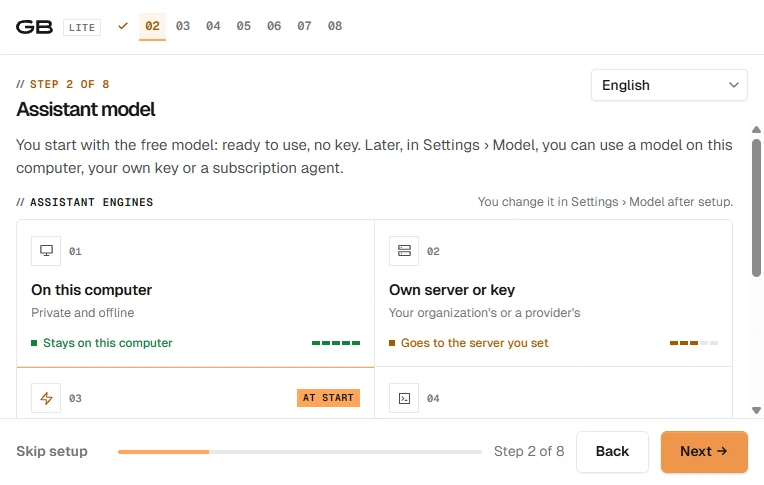
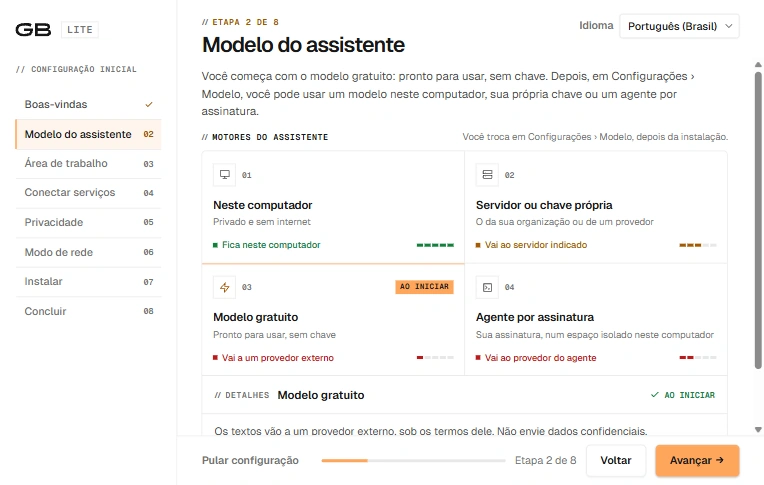
Show each Lite model setting in Brazilian Portuguese

diff --git a/lite/index.html b/lite/index.html
@@ -75,8 +75,8 @@
     </div>
     <figure class="lite-stage">
       <img class="lite-screen lite-screen--hero" src="/lite/assets/assistant.webp?v=public-sector" width="1280" height="750" alt="General Bots Lite assistant with a sample conversation" data-i18n="lite.assistant_alt" fetchpriority="high" decoding="async">
-      <img class="lite-screen lite-screen--float" src="/lite/assets/model.webp" width="764" height="485" alt=""  decoding="async">
-      <figcaption class="lite-preview" data-i18n="lite.preview">Lite development screens with sample data. Interface language may vary by screen.</figcaption>
+      <img class="lite-screen lite-screen--float" src="/lite/assets/model.webp?v=pt-br" width="764" height="485" alt=""  decoding="async">
+      <figcaption class="lite-preview" data-i18n="lite.preview">Lite development screenshots in Brazilian Portuguese with sample data.</figcaption>
     </figure>
     <ul class="lite-benefits">
         <li class="lite-benefit">
@@ -104,33 +104,57 @@
   <section class="lite-wrap lite-section" id="engines" aria-labelledby="lite-engines_title">
     <div class="lite-section-heading">
       <h2 id="lite-engines_title" data-i18n="lite.engines_title">Four engines. You choose where your data goes.</h2>
-      <p data-i18n="lite.engines_copy">The engine panel shows the active engine, its destination and what it can do.</p>
+      <p data-i18n="lite.engines_copy">In Settings › Model, choose an engine and see where it processes prompts.</p>
     </div>
     <div class="lite-engine-grid">
-      <figure class="lite-image-pad">
-        <a class="lite-image-open" href="/lite/assets/model.webp?view=full">
-          <img class="lite-screen" src="/lite/assets/model.webp" width="764" height="485" alt="First-run screen listing the four assistant engines" data-i18n="lite.model_alt" loading="lazy" decoding="async">
-          <svg aria-hidden="true" class="lite-image-expand" viewBox="0 0 24 24" fill="none" stroke="currentColor" stroke-width="2" stroke-linecap="round" stroke-linejoin="round"><path d="M9 3H3v6m12-6h6v6M3 15v6h6m12-6v6h-6"/></svg>
-        </a>
-      </figure>
-      <div class="lite-engine-options">
-        <details name="lite-engines" open>
-          <summary><svg aria-hidden="true" viewBox="0 0 24 24" fill="none" stroke="currentColor" stroke-width="1.75" stroke-linecap="round" stroke-linejoin="round"><rect x="2" y="3" width="20" height="14" rx="2"/><path d="M8 21h8m-4-4v4"/></svg><span data-i18n="lite.engine_local">On this computer</span></summary>
+      <article class="lite-engine-card">
+        <div class="lite-engine-copy">
+          <h3><svg aria-hidden="true" viewBox="0 0 24 24" fill="none" stroke="currentColor" stroke-width="1.75" stroke-linecap="round" stroke-linejoin="round"><rect x="2" y="3" width="20" height="14" rx="2"/><path d="M8 21h8m-4-4v4"/></svg><span data-i18n="lite.engine_local">On this computer</span></h3>
           <p data-i18n="lite.engine_local_copy">A compatible local model processes prompts on your computer after setup.</p>
-        </details>
-        <details name="lite-engines">
-          <summary><svg aria-hidden="true" viewBox="0 0 24 24" fill="none" stroke="currentColor" stroke-width="1.75" stroke-linecap="round" stroke-linejoin="round"><rect x="3" y="3" width="18" height="8" rx="2"/><rect x="3" y="13" width="18" height="8" rx="2"/><path d="M7 7h.01M7 17h.01"/></svg><span data-i18n="lite.engine_server">Your own server or key</span></summary>
+        </div>
+        <figure class="lite-image-pad">
+          <a class="lite-image-open" href="/lite/assets/settings-model-local.webp?view=full">
+            <img class="lite-screen" src="/lite/assets/settings-model-local.webp" width="1090" height="733" alt="Settings › Model showing the local model catalog" data-i18n="lite.model_local_alt" loading="lazy" decoding="async">
+            <svg aria-hidden="true" class="lite-image-expand" viewBox="0 0 24 24" fill="none" stroke="currentColor" stroke-width="2" stroke-linecap="round" stroke-linejoin="round"><path d="M9 3H3v6m12-6h6v6M3 15v6h6m12-6v6h-6"/></svg>
+          </a>
+        </figure>
+      </article>
+      <article class="lite-engine-card">
+        <div class="lite-engine-copy">
+          <h3><svg aria-hidden="true" viewBox="0 0 24 24" fill="none" stroke="currentColor" stroke-width="1.75" stroke-linecap="round" stroke-linejoin="round"><rect x="3" y="3" width="18" height="8" rx="2"/><rect x="3" y="13" width="18" height="8" rx="2"/><path d="M7 7h.01M7 17h.01"/></svg><span data-i18n="lite.engine_server">Your own server or key</span></h3>
           <p data-i18n="lite.engine_server_copy">Prompts go to your organization’s server or the provider you select.</p>
-        </details>
-        <details name="lite-engines">
-          <summary><svg aria-hidden="true" viewBox="0 0 24 24" fill="none" stroke="currentColor" stroke-width="1.75" stroke-linecap="round" stroke-linejoin="round"><path d="M6 18a4 4 0 0 1-.3-8 6 6 0 0 1 11.6-1.4A4.8 4.8 0 0 1 18 18Z"/></svg><span data-i18n="lite.engine_free">Free hosted model</span></summary>
+        </div>
+        <figure class="lite-image-pad">
+          <a class="lite-image-open" href="/lite/assets/settings-model-server.webp?view=full">
+            <img class="lite-screen" src="/lite/assets/settings-model-server.webp" width="1090" height="709" alt="Settings › Model showing organization server and provider-key choices" data-i18n="lite.model_server_alt" loading="lazy" decoding="async">
+            <svg aria-hidden="true" class="lite-image-expand" viewBox="0 0 24 24" fill="none" stroke="currentColor" stroke-width="2" stroke-linecap="round" stroke-linejoin="round"><path d="M9 3H3v6m12-6h6v6M3 15v6h6m12-6v6h-6"/></svg>
+          </a>
+        </figure>
+      </article>
+      <article class="lite-engine-card">
+        <div class="lite-engine-copy">
+          <h3><svg aria-hidden="true" viewBox="0 0 24 24" fill="none" stroke="currentColor" stroke-width="1.75" stroke-linecap="round" stroke-linejoin="round"><path d="M6 18a4 4 0 0 1-.3-8 6 6 0 0 1 11.6-1.4A4.8 4.8 0 0 1 18 18Z"/></svg><span data-i18n="lite.engine_free">Free hosted model</span></h3>
           <p data-i18n="lite.engine_free_copy">Ready to try without an API key. Prompts go to an external provider.</p>
-        </details>
-        <details name="lite-engines">
-          <summary><svg aria-hidden="true" viewBox="0 0 24 24" fill="none" stroke="currentColor" stroke-width="1.75" stroke-linecap="round" stroke-linejoin="round"><rect x="4" y="8" width="16" height="12" rx="3"/><path d="M12 8V4m-1 0h2M9 14h.01M15 14h.01M2 12v4m20-4v4"/></svg><span data-i18n="lite.engine_subscription">Subscription agent</span></summary>
+        </div>
+        <figure class="lite-image-pad">
+          <a class="lite-image-open" href="/lite/assets/settings-model-free.webp?view=full">
+            <img class="lite-screen" src="/lite/assets/settings-model-free.webp" width="1090" height="448" alt="Settings › Model showing the free hosted model" data-i18n="lite.model_free_alt" loading="lazy" decoding="async">
+            <svg aria-hidden="true" class="lite-image-expand" viewBox="0 0 24 24" fill="none" stroke="currentColor" stroke-width="2" stroke-linecap="round" stroke-linejoin="round"><path d="M9 3H3v6m12-6h6v6M3 15v6h6m12-6v6h-6"/></svg>
+          </a>
+        </figure>
+      </article>
+      <article class="lite-engine-card">
+        <div class="lite-engine-copy">
+          <h3><svg aria-hidden="true" viewBox="0 0 24 24" fill="none" stroke="currentColor" stroke-width="1.75" stroke-linecap="round" stroke-linejoin="round"><rect x="4" y="8" width="16" height="12" rx="3"/><path d="M12 8V4m-1 0h2M9 14h.01M15 14h.01M2 12v4m20-4v4"/></svg><span data-i18n="lite.engine_subscription">Subscription agent</span></h3>
           <p data-i18n="lite.engine_subscription_copy">The agent works in an isolated workspace on your computer, while prompts go to the subscription provider.</p>
-        </details>
-      </div>
+        </div>
+        <figure class="lite-image-pad">
+          <a class="lite-image-open" href="/lite/assets/settings-model-subscription.webp?view=full">
+            <img class="lite-screen" src="/lite/assets/settings-model-subscription.webp" width="1090" height="502" alt="Settings › Model showing subscription agent choices" data-i18n="lite.model_subscription_alt" loading="lazy" decoding="async">
+            <svg aria-hidden="true" class="lite-image-expand" viewBox="0 0 24 24" fill="none" stroke="currentColor" stroke-width="2" stroke-linecap="round" stroke-linejoin="round"><path d="M9 3H3v6m12-6h6v6M3 15v6h6m12-6v6h-6"/></svg>
+          </a>
+        </figure>
+      </article>
     </div>
   </section>
 
@@ -249,8 +273,8 @@
         <li><div><h3 data-i18n="lite.step_agent">Turn on the agent when needed</h3><p data-i18n="lite.step_agent_copy">Approve actions as the agent works in the isolated virtual machine.</p></div></li>
       </ol>
       <figure class="lite-image-pad">
-        <a class="lite-image-open" href="/lite/assets/workspace.webp?view=full">
-          <img class="lite-screen" src="/lite/assets/workspace.webp" width="764" height="485" alt="First-run screen for choosing the workspace folder" data-i18n="lite.workspace_alt" loading="lazy" decoding="async">
+        <a class="lite-image-open" href="/lite/assets/workspace.webp?view=full&amp;v=pt-br">
+          <img class="lite-screen" src="/lite/assets/workspace.webp?v=pt-br" width="764" height="485" alt="First-run screen for choosing the workspace folder" data-i18n="lite.workspace_alt" loading="lazy" decoding="async">
           <svg aria-hidden="true" class="lite-image-expand" viewBox="0 0 24 24" fill="none" stroke="currentColor" stroke-width="2" stroke-linecap="round" stroke-linejoin="round"><path d="M9 3H3v6m12-6h6v6M3 15v6h6m12-6v6h-6"/></svg>
         </a>
       </figure>

diff --git a/lite/lite.css b/lite/lite.css
@@ -189,7 +189,7 @@
 .lite-engine-grid, .lite-agent-grid, .lite-setup-grid {
   display: grid; align-items: stretch; min-width: 0; gap: 1rem;
 }
-.lite-engine-grid { grid-template-columns: minmax(0, 1.22fr) minmax(0, .78fr); }
+.lite-engine-grid { grid-template-columns: repeat(2, minmax(0, 1fr)); }
 .lite-agent-grid { grid-template-columns: minmax(0, 1.55fr) minmax(0, .75fr); }
 .lite-setup-grid { grid-template-columns: minmax(0, .9fr) minmax(0, 1.1fr); }
 .lite-image-pad {
@@ -207,27 +207,19 @@
   color: var(--lite-ink); background: var(--lite-surface);
   width: 1.55rem; height: 1.55rem; padding: .27rem; border-radius: 4px; border: 1px solid var(--lite-line);
 }
-.lite-engine-options { display: grid; align-content: start; gap: .55rem; }
-.lite-engine-options details, .lite-card, .lite-trace {
+.lite-engine-card, .lite-card, .lite-trace {
   min-width: 0; border: 1px solid var(--lite-line); border-radius: 8px; background: var(--lite-surface);
 }
-.lite-engine-options details[open] {
-  border-color: color-mix(in srgb, var(--lite-accent-text) 51%, var(--lite-line));
-  background: color-mix(in srgb, var(--lite-accent) 8%, var(--lite-surface));
+.lite-engine-card { display: flex; flex-direction: column; }
+.lite-engine-copy { display: grid; align-content: start; gap: .55rem; padding: clamp(1rem, 2vw, 1.45rem); }
+.lite-engine-copy h3 { display: flex; align-items: center; gap: .6rem; }
+.lite-engine-copy svg, .lite-card-icon svg, .lite-trace svg {
+  flex: none; width: 1.15rem; height: 1.15rem; color: var(--lite-accent-text);
 }
-.lite-engine-options summary {
-  display: grid; grid-template-columns: 1.25rem 1fr .65rem; gap: .7rem; align-items: center;
-  cursor: pointer; padding: .9rem 1rem; color: var(--lite-ink); font-weight: 650; list-style: none;
+.lite-engine-card .lite-image-pad {
+  flex: 1; align-content: start; padding: clamp(.5rem, 1.3vw, 1rem);
+  border: 0; border-block-start: 1px solid var(--lite-line); border-radius: 0 0 7px 7px;
 }
-.lite-engine-options summary::-webkit-details-marker { display: none; }
-.lite-engine-options summary::after {
-  content: ""; width: .45rem; height: .45rem; border: solid currentColor; border-width: 0 1.5px 1.5px 0;
-  transform: rotate(45deg);
-}
-.lite-engine-options details[open] summary::after { transform: rotate(225deg); }
-.lite-engine-options summary:hover { background: color-mix(in srgb, var(--lite-accent) 7%, transparent); }
-.lite-engine-options svg, .lite-card-icon svg, .lite-trace svg { width: 1.15rem; height: 1.15rem; color: var(--lite-accent-text); }
-.lite-engine-options p { padding: 0 1rem 1rem 2.95rem; font-size: .95rem; }
 .lite-trace { padding: clamp(1rem, 2vw, 1.55rem); }
 .lite-trace h3 { margin-block-end: 1rem; }
 .lite-trace ul { list-style: none; padding: 0; margin: 0; }
